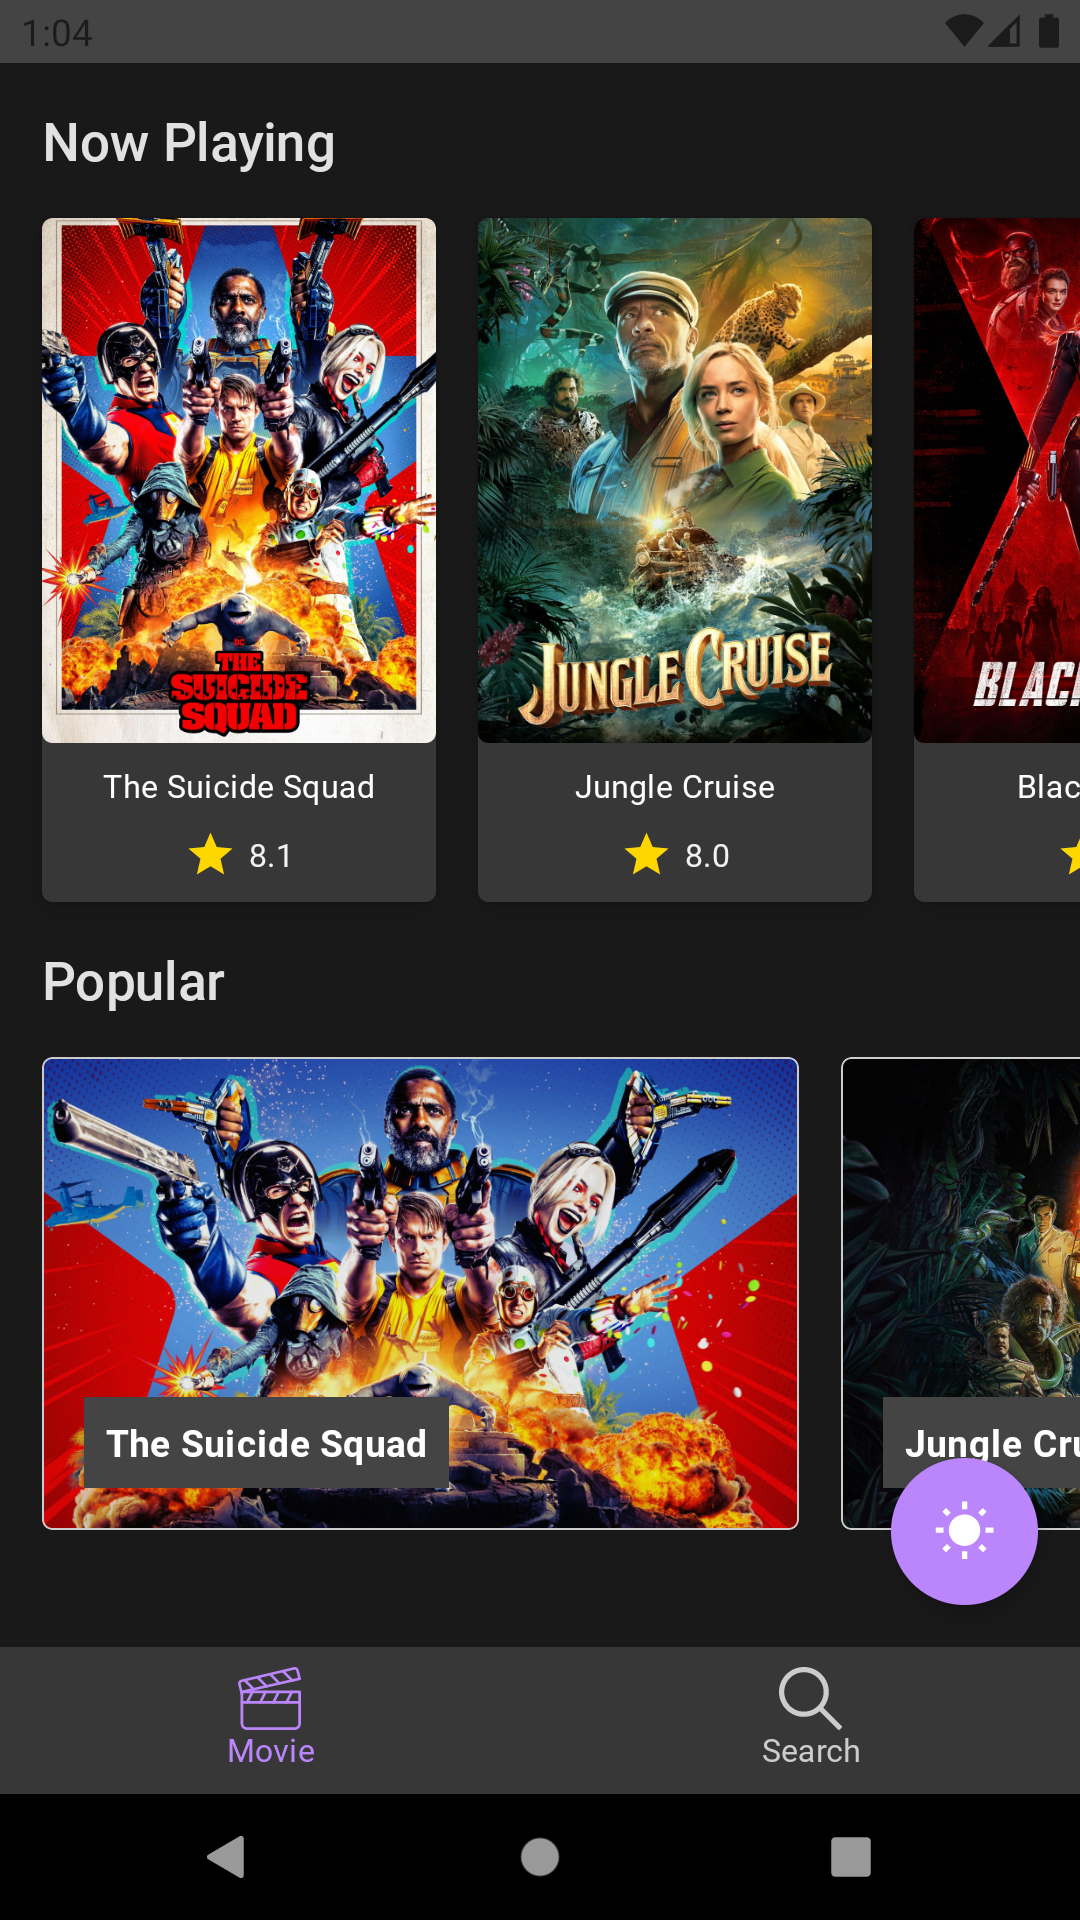
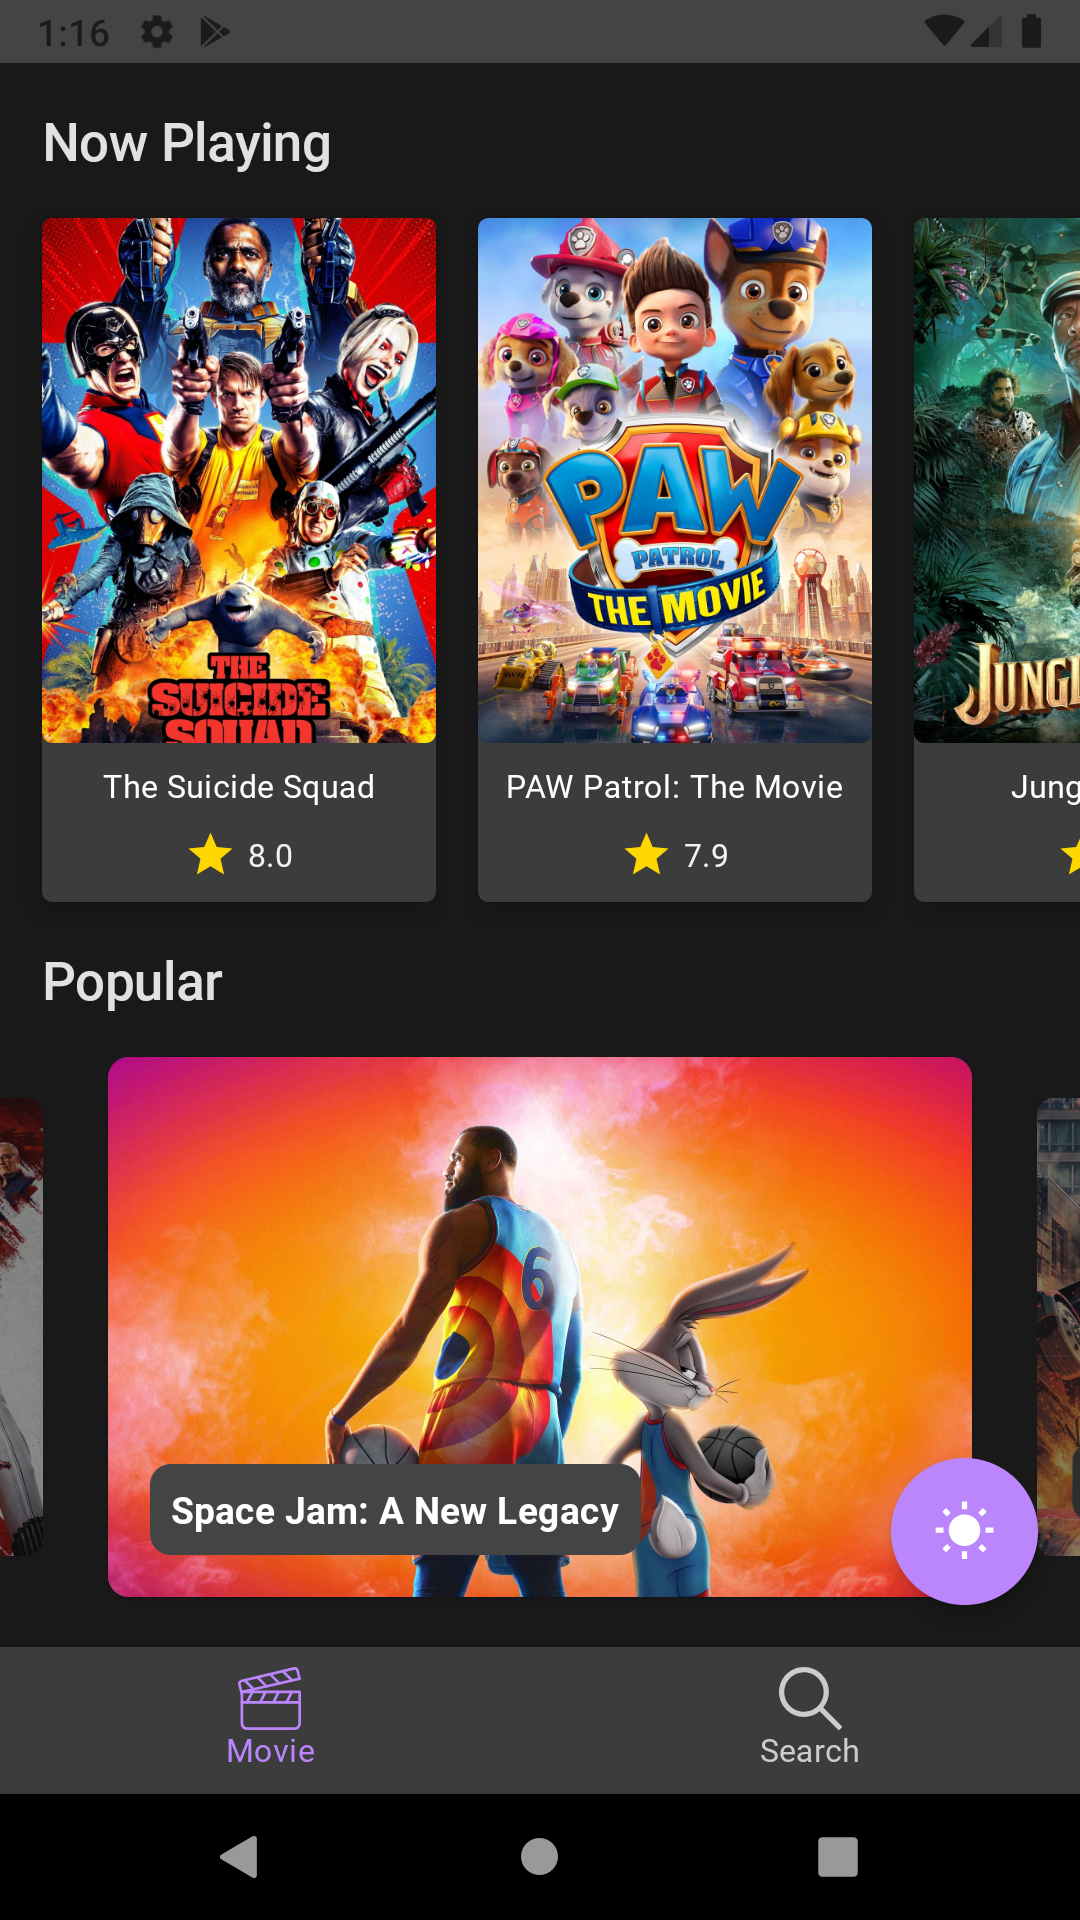
Added accompanist horizontal pager in MovieScreen.kt

diff --git a/app/src/main/java/com/caner/composemoviedb/ui/screen/MovieScreen.kt b/app/src/main/java/com/caner/composemoviedb/ui/screen/MovieScreen.kt
@@ -3,7 +3,7 @@ package com.caner.composemoviedb.ui.screen
 import androidx.compose.foundation.*
 import androidx.compose.foundation.layout.*
 import androidx.compose.foundation.lazy.LazyRow
-import androidx.compose.foundation.lazy.items
+import androidx.compose.foundation.shape.RoundedCornerShape
 import androidx.compose.material.Card
 import androidx.compose.material.MaterialTheme
 import androidx.compose.material.Text
@@ -12,14 +12,15 @@ import androidx.compose.ui.Alignment
 import androidx.compose.ui.Alignment.Companion.BottomStart
 import androidx.compose.ui.Alignment.Companion.CenterHorizontally
 import androidx.compose.ui.Modifier
-import androidx.compose.ui.draw.alpha
 import androidx.compose.ui.draw.clip
 import androidx.compose.ui.graphics.Color
+import androidx.compose.ui.graphics.graphicsLayer
 import androidx.compose.ui.res.stringResource
 import androidx.compose.ui.text.font.FontWeight
 import androidx.compose.ui.text.style.TextOverflow
 import androidx.compose.ui.unit.dp
 import androidx.compose.ui.unit.sp
+import androidx.compose.ui.util.lerp
 import androidx.hilt.navigation.compose.hiltViewModel
 import androidx.paging.LoadState
 import androidx.paging.compose.collectAsLazyPagingItems
@@ -34,7 +35,13 @@ import com.caner.composemoviedb.ui.state.ErrorItem
 import com.caner.composemoviedb.ui.state.ErrorView
 import com.caner.composemoviedb.ui.state.LoadingItem
 import com.caner.composemoviedb.ui.state.LoadingView
+import com.google.accompanist.pager.ExperimentalPagerApi
+import com.google.accompanist.pager.HorizontalPager
+import com.google.accompanist.pager.calculateCurrentOffsetForPage
+import com.google.accompanist.pager.rememberPagerState
+import kotlin.math.absoluteValue
 
+@ExperimentalPagerApi
 @Composable
 fun MovieScreen(
     viewModel: MovieViewModel = hiltViewModel(),
@@ -163,6 +170,7 @@ fun MovieItem(item: Movie?, click: (String) -> Unit) {
     }
 }
 
+@ExperimentalPagerApi
 @Composable
 fun PopularMovies(viewModel: MovieViewModel = hiltViewModel()) {
     when (val movieState = viewModel.popularMovieState.collectAsState().value) {
@@ -173,39 +181,72 @@ fun PopularMovies(viewModel: MovieViewModel = hiltViewModel()) {
                 style = MaterialTheme.typography.h6
             )
 
-            LazyRow(
-                contentPadding = PaddingValues(
-                    start = 16.dp,
-                    end = 16.dp,
-                    bottom = 70.dp
-                ),
-                horizontalArrangement = Arrangement.spacedBy(16.dp),
-                verticalAlignment = Alignment.CenterVertically
-            ) {
-                items(movieState.data.movies) {
-                    Box(
-                        modifier = Modifier
-                            .height(180.dp)
-                            .aspectRatio(1.6f)
-                            .clip(MaterialTheme.shapes.small)
-                            .border(0.5.dp, Color.LightGray, MaterialTheme.shapes.small)
-                    ) {
-                        MoviePoster(poster = it.backdrop?.original, modifier = Modifier.alpha(0.9f))
-                        Text(
-                            text = it.title, color = Color.White,
-                            fontWeight = FontWeight.Bold,
-                            fontSize = 14.sp,
-                            modifier = Modifier
-                                .align(BottomStart)
-                                .padding(16.dp)
-                                .background(Color.DarkGray)
-                                .padding(8.dp)
-                        )
-                    }
-                }
-            }
+            PopularMoviesHorizontalPager(movieState.data.movies)
         }
         else -> {
+        }
+    }
+}
+
+@ExperimentalPagerApi
+@Composable
+fun PopularMoviesHorizontalPager(movies: List<Movie>) {
+    val pagerState = rememberPagerState(
+        pageCount = 10,
+        // We increase the offscreen limit, to allow pre-loading of images
+        initialOffscreenLimit = 2,
+    )
+
+    HorizontalPager(
+        state = pagerState,
+        modifier = Modifier.fillMaxSize()
+    ) { page ->
+        val movie = movies[page]
+        Card(
+            Modifier
+                .graphicsLayer {
+                    // Calculate the absolute offset for the current page from the
+                    // scroll position. We use the absolute value which allows us to mirror
+                    // any effects for both directions
+                    val pageOffset = calculateCurrentOffsetForPage(page).absoluteValue
+
+                    // We animate the scaleX + scaleY, between 85% and 100%
+                    lerp(
+                        start = 0.85f,
+                        stop = 1f,
+                        fraction = 1f - pageOffset.coerceIn(0f, 1f)
+                    ).also { scale ->
+                        scaleX = scale
+                        scaleY = scale
+                    }
+
+                    // We animate the alpha, between 50% and 100%
+                    alpha = lerp(
+                        start = 0.5f,
+                        stop = 1f,
+                        fraction = 1f - pageOffset.coerceIn(0f, 1f)
+                    )
+                }
+                .fillMaxWidth(0.8f)
+                .aspectRatio(1.6f)
+        ) {
+            Box(
+                modifier = Modifier
+                    .fillMaxSize()
+                    .clip(MaterialTheme.shapes.small)
+            ) {
+                MoviePoster(poster = movie.backdrop?.original)
+                Text(
+                    text = movie.title, color = Color.White,
+                    fontWeight = FontWeight.Bold,
+                    fontSize = 14.sp,
+                    modifier = Modifier
+                        .align(BottomStart)
+                        .padding(16.dp)
+                        .background(Color.DarkGray, shape = RoundedCornerShape(8.dp))
+                        .padding(8.dp)
+                )
+            }
         }
     }
 }

diff --git a/app/src/main/java/com/caner/composemoviedb/ui/screen/Home.kt b/app/src/main/java/com/caner/composemoviedb/ui/screen/Home.kt
@@ -20,6 +20,7 @@ import androidx.navigation.compose.*
 import com.caner.composemoviedb.R
 import com.caner.composemoviedb.common.Constants
 import com.caner.composemoviedb.utils.Screen
+import com.google.accompanist.pager.ExperimentalPagerApi
 import com.google.accompanist.systemuicontroller.rememberSystemUiController
 import kotlinx.coroutines.ExperimentalCoroutinesApi
 import kotlinx.coroutines.FlowPreview
@@ -39,6 +40,7 @@ fun StatusBarColor(isDarkTheme: Boolean) {
     }
 }
 
+@ExperimentalPagerApi
 @ExperimentalComposeUiApi
 @ExperimentalCoroutinesApi
 @FlowPreview
@@ -136,6 +138,7 @@ fun BottomNavigationBar(
     }
 }
 
+@ExperimentalPagerApi
 @ExperimentalComposeUiApi
 @ExperimentalFoundationApi
 @ExperimentalCoroutinesApi

diff --git a/app/src/main/java/com/caner/composemoviedb/ui/MainActivity.kt b/app/src/main/java/com/caner/composemoviedb/ui/MainActivity.kt
@@ -8,6 +8,7 @@ import androidx.compose.ui.ExperimentalComposeUiApi
 import com.caner.composemoviedb.MovieApp
 import com.caner.composemoviedb.ui.screen.*
 import com.caner.composemoviedb.ui.theme.MovieItemComposeTheme
+import com.google.accompanist.pager.ExperimentalPagerApi
 import dagger.hilt.android.AndroidEntryPoint
 import kotlinx.coroutines.ExperimentalCoroutinesApi
 import kotlinx.coroutines.FlowPreview
@@ -19,6 +20,7 @@ class MainActivity : ComponentActivity() {
     @Inject
     lateinit var app: MovieApp
 
+    @ExperimentalPagerApi
     @ExperimentalComposeUiApi
     @ExperimentalCoroutinesApi
     @FlowPreview

diff --git a/app/src/main/java/com/caner/composemoviedb/ui/component/Image.kt b/app/src/main/java/com/caner/composemoviedb/ui/component/Image.kt
@@ -7,7 +7,7 @@ import androidx.compose.ui.layout.ContentScale
 import coil.compose.rememberImagePainter
 
 @Composable
-fun MoviePoster(poster: String?, modifier: Modifier) {
+fun MoviePoster(poster: String?, modifier: Modifier = Modifier) {
     val painter =
         rememberImagePainter(
             data = poster,
